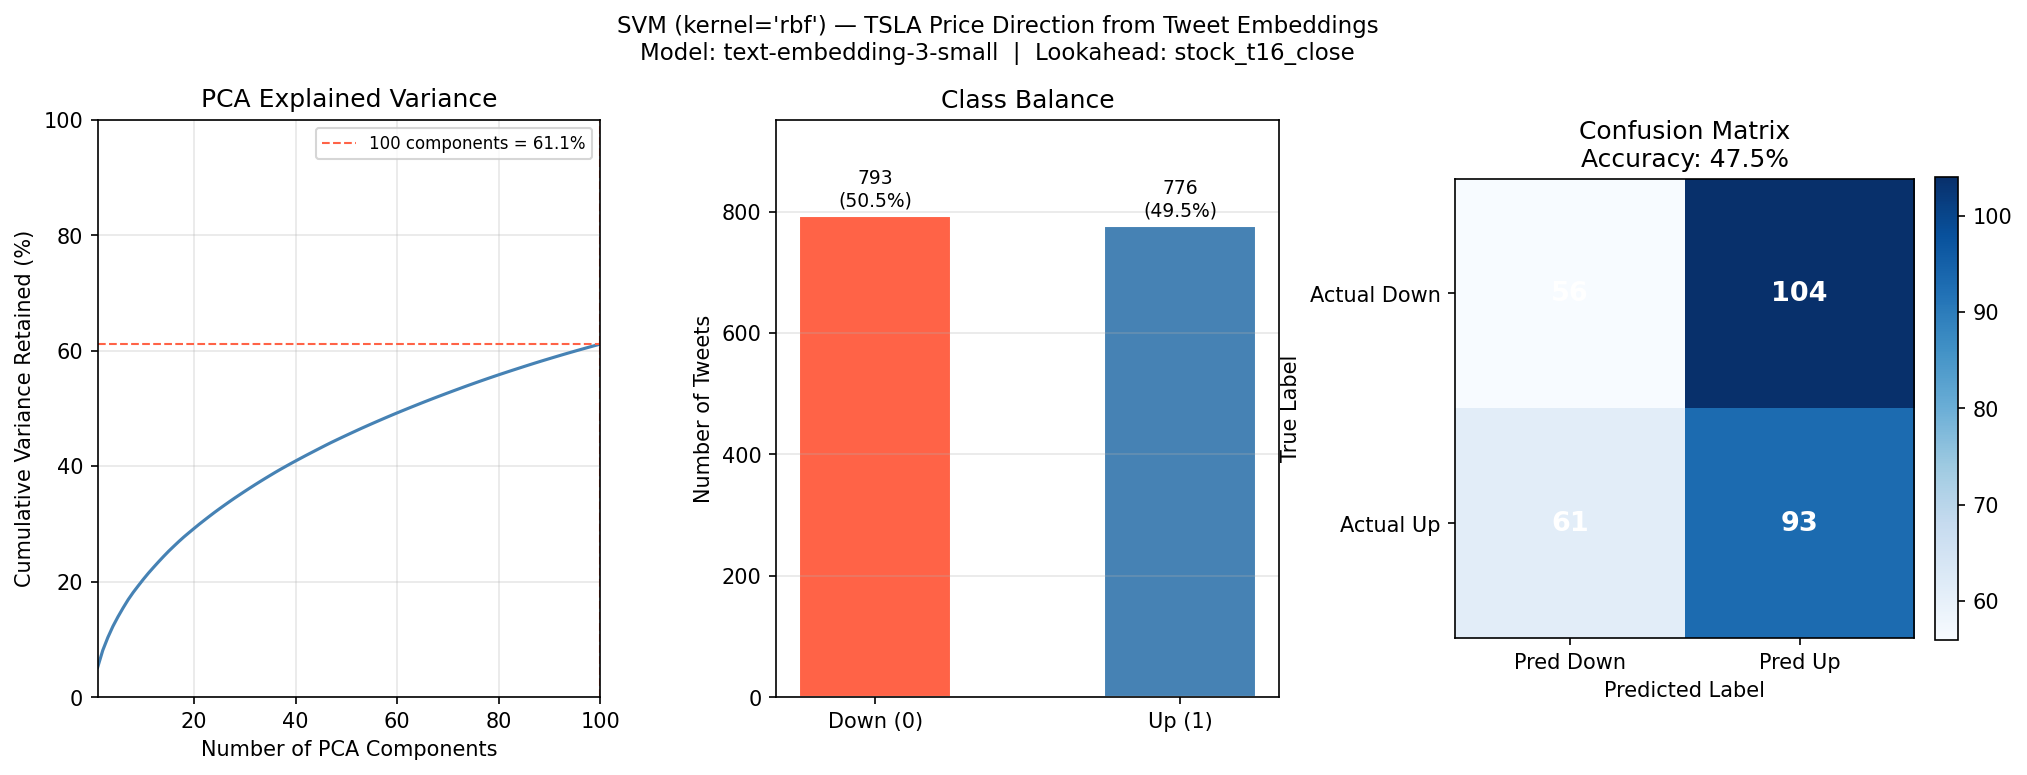
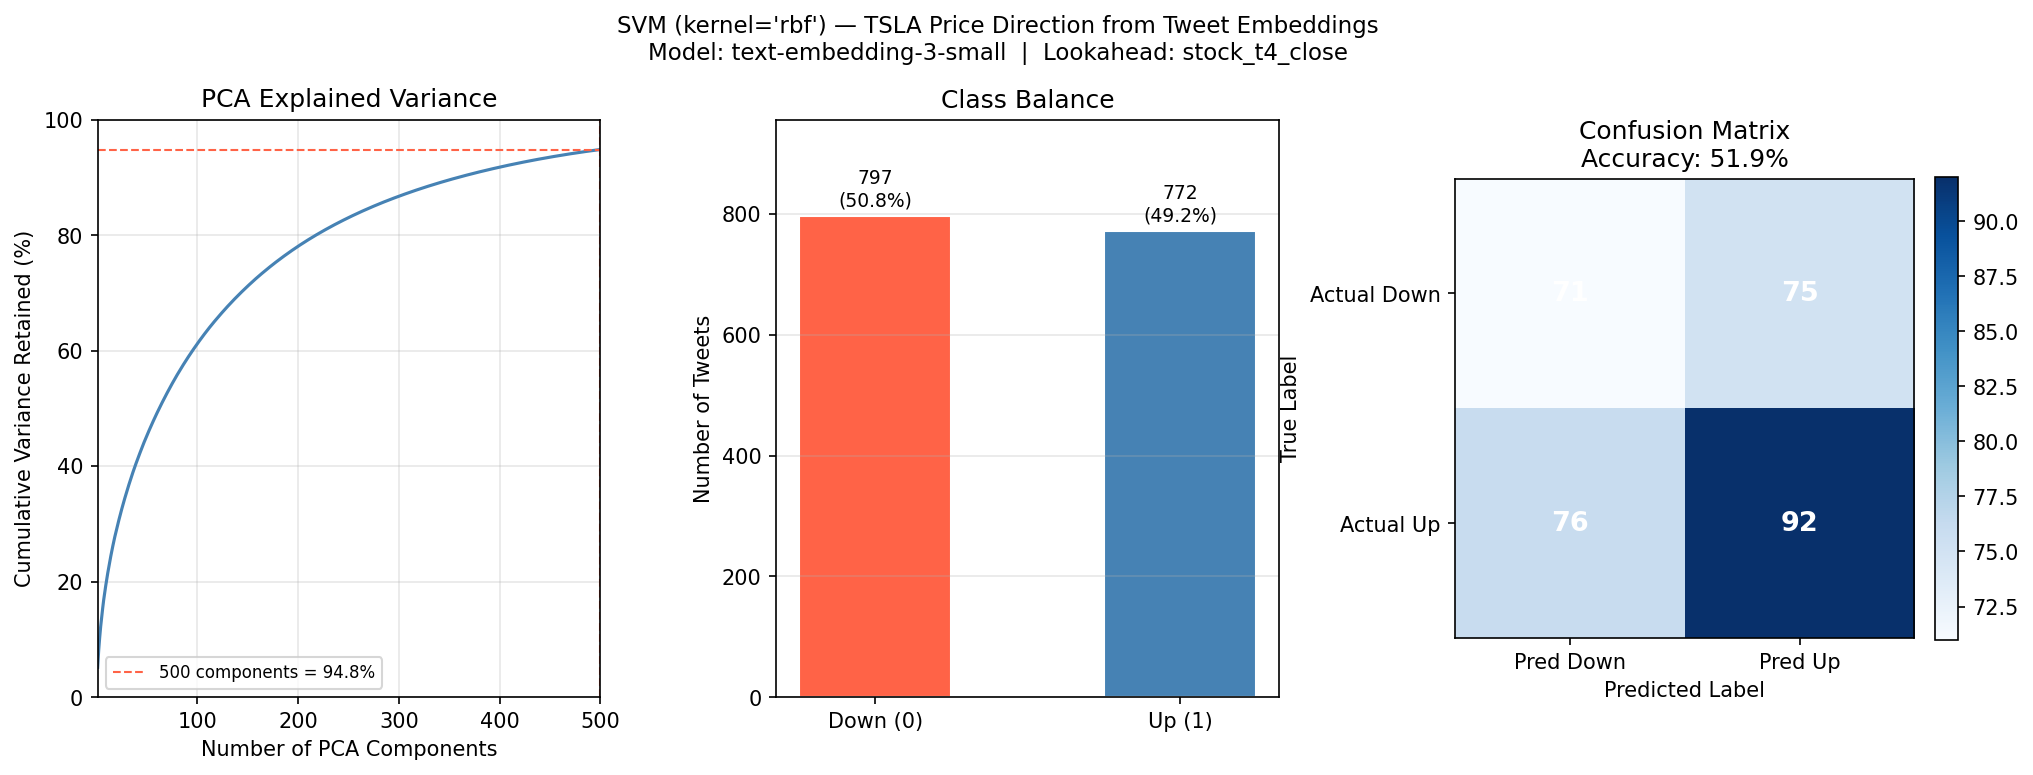
updates svm

diff --git a/code/train_svm.py b/code/train_svm.py
@@ -34,15 +34,17 @@ PIPELINE_PATH  = BASE_DIR / 'data' / 'cleaned' / 'pipeline_output.csv'
 PLOT_OUT       = BASE_DIR / 'analysis' / 'svm_results.png'
 
 BASELINE_COL   = 'stock_t0_close'
-LOOKAHEAD_COL  = 'stock_t16_close'
-PCA_COMPONENTS = 100
+LOOKAHEAD_COL  = 'stock_t4_close'
+PCA_COMPONENTS = 500
 
-# 'linear' = same as logistic regression but margin-maximized, faster
 # 'rbf'    = non-linear boundary, more expressive, slower
 KERNEL = 'rbf'
 
-
 def load_embeddings_with_features():
+    """
+    Creates the feature space with tweet embeddings + engagement features.
+    Feature scaling the engagement features.
+    """
     data       = np.load(EMBEDDING_PATH, allow_pickle=False)
     X_emb      = data['embeddings']
     row_ids    = data['row_ids']
@@ -55,16 +57,22 @@ def load_embeddings_with_features():
     print(f"Feature matrix with engagement: {X.shape}")
     return X, row_ids
 
-
 def build_labels(row_ids: np.ndarray) -> np.ndarray:
+    """
+    Build binary labels based on whether the stock price went up (1) or down (0) 
+    compared to the baseline. Handles missing stock data by assigning NaN labels.
+    """
     df      = pd.read_csv(PIPELINE_PATH)
     labels  = (df[LOOKAHEAD_COL] > df[BASELINE_COL]).astype(float)
     missing = df[LOOKAHEAD_COL].isna() | df[BASELINE_COL].isna()
     labels[missing] = np.nan
     return labels.to_numpy()
 
-
 def align_and_clean(X, labels):
+    """
+    Aligns the feature matrix with the labels using the row_ids and drops samples with missing labels.
+    Also prints class balance and how many samples were dropped due to missing stock data.
+    """
     mask    = ~np.isnan(labels)
     X_clean = X[mask]
     y_clean = labels[mask].astype(int)
@@ -72,14 +80,17 @@ def align_and_clean(X, labels):
     print(f"Remaining: {len(y_clean)} samples | class balance: {y_clean.mean():.2%} positive")
     return X_clean, y_clean
 
-
 def apply_pca(X_train, X_test, n_components):
-    if n_components is None:
+    if n_components is None or n_components == 0:  # ← also handle 0
         return X_train, X_test, None
 
     # PCA on embeddings only — keeps engagement features from dominating components
     emb_train, eng_train = X_train[:, :-3], X_train[:, -3:]
     emb_test,  eng_test  = X_test[:, :-3],  X_test[:, -3:]
+
+    # PCA can't produce more components than min(n_samples, n_features)
+    max_components = min(emb_train.shape[0], emb_train.shape[1])
+    n_components   = min(n_components, max_components)
 
     pca         = PCA(n_components=n_components, random_state=42)
     emb_train_r = pca.fit_transform(emb_train)
@@ -89,23 +100,28 @@ def apply_pca(X_train, X_test, n_components):
           f"variance retained: {pca.explained_variance_ratio_.sum():.2%}")
     return np.hstack([emb_train_r, eng_train]), np.hstack([emb_test_r, eng_test]), pca
 
-
 def train(X_train, y_train):
+    """
+    Trains a Logistic Regression classifier with balanced class weights to handle class imbalance.
+    Also applies feature scaling to the training data using StandardScaler.
+    """
     scaler  = StandardScaler()
     X_train = scaler.fit_transform(X_train)
     model   = SVC(
         kernel=KERNEL,
-        C=1.0,
+        C=1.0, # balanced regularization
         gamma='scale',         # 1 / (n_features * X.var())
         class_weight='balanced',
         random_state=42,
     )
-    print(f"Training SVM (kernel='{KERNEL}') — this may take a moment...")
+    print(f"Training SVM (kernel='{KERNEL}')...")
     model.fit(X_train, y_train)
     return model, scaler
 
-
 def evaluate(model, scaler, X_test, y_test):
+    """
+    Evaluates the trained model on the test set and prints classification metrics.
+    """
     y_pred = model.predict(scaler.transform(X_test))
     print("\n── Classification Report ─────────────────────────")
     print(classification_report(y_test, y_pred, target_names=['Down (0)', 'Up (1)']))
@@ -113,33 +129,40 @@ def evaluate(model, scaler, X_test, y_test):
     print(confusion_matrix(y_test, y_pred))
     return y_pred
 
-
 def plot_results(pca, y, y_test, y_pred):
-    fig = plt.figure(figsize=(16, 5))
+    use_pca  = pca is not None and PCA_COMPONENTS > 0
+    n_panels = 3 if use_pca else 2
+
+    fig = plt.figure(figsize=(16 if use_pca else 11, 5))
     fig.suptitle(
         f"SVM (kernel='{KERNEL}') — TSLA Price Direction from Tweet Embeddings\n"
         f"Model: {ACTIVE_MODEL[1]}  |  Lookahead: {LOOKAHEAD_COL}",
         fontsize=11, y=1.02
     )
-    gs = gridspec.GridSpec(1, 3, figure=fig, wspace=0.35)
+    gs = gridspec.GridSpec(1, n_panels, figure=fig, wspace=0.35)
 
-    # PCA explained variance
-    ax1    = fig.add_subplot(gs[0])
-    cumvar = np.cumsum(pca.explained_variance_ratio_) * 100
-    ax1.plot(range(1, len(cumvar) + 1), cumvar, color='steelblue', linewidth=1.5)
-    ax1.axhline(cumvar[99], color='tomato', linestyle='--', linewidth=1,
-                label=f'100 components = {cumvar[99]:.1f}%')
-    ax1.axvline(100, color='tomato', linestyle='--', linewidth=1)
-    ax1.set_xlabel('Number of PCA Components')
-    ax1.set_ylabel('Cumulative Variance Retained (%)')
-    ax1.set_title('PCA Explained Variance')
-    ax1.legend(fontsize=8)
-    ax1.set_xlim(1, len(cumvar))
-    ax1.set_ylim(0, 100)
-    ax1.grid(True, alpha=0.3)
+    panel = 0
+
+    # PCA explained variance (only if PCA was applied)
+    if use_pca:
+        actual_components = len(pca.explained_variance_ratio_)
+        marker            = min(PCA_COMPONENTS, actual_components) - 1
+        ax1    = fig.add_subplot(gs[panel]); panel += 1
+        cumvar = np.cumsum(pca.explained_variance_ratio_) * 100
+        ax1.plot(range(1, len(cumvar) + 1), cumvar, color='steelblue', linewidth=1.5)
+        ax1.axhline(cumvar[marker], color='tomato', linestyle='--', linewidth=1,
+                    label=f'{actual_components} components = {cumvar[marker]:.1f}%')
+        ax1.axvline(actual_components, color='tomato', linestyle='--', linewidth=1)
+        ax1.set_xlabel('Number of PCA Components')
+        ax1.set_ylabel('Cumulative Variance Retained (%)')
+        ax1.set_title('PCA Explained Variance')
+        ax1.legend(fontsize=8)
+        ax1.set_xlim(1, len(cumvar))
+        ax1.set_ylim(0, 100)
+        ax1.grid(True, alpha=0.3)
 
     # Class balance
-    ax2    = fig.add_subplot(gs[1])
+    ax2    = fig.add_subplot(gs[panel]); panel += 1
     n_up   = int(y.sum())
     n_down = len(y) - n_up
     bars   = ax2.bar(['Down (0)', 'Up (1)'], [n_down, n_up],
@@ -157,7 +180,7 @@ def plot_results(pca, y, y_test, y_pred):
     ax2.grid(True, alpha=0.3, axis='y')
 
     # Confusion matrix heatmap
-    ax3 = fig.add_subplot(gs[2])
+    ax3 = fig.add_subplot(gs[panel])
     cm  = confusion_matrix(y_test, y_pred)
     im  = ax3.imshow(cm, interpolation='nearest', cmap='Blues')
     fig.colorbar(im, ax=ax3, fraction=0.046, pad=0.04)
